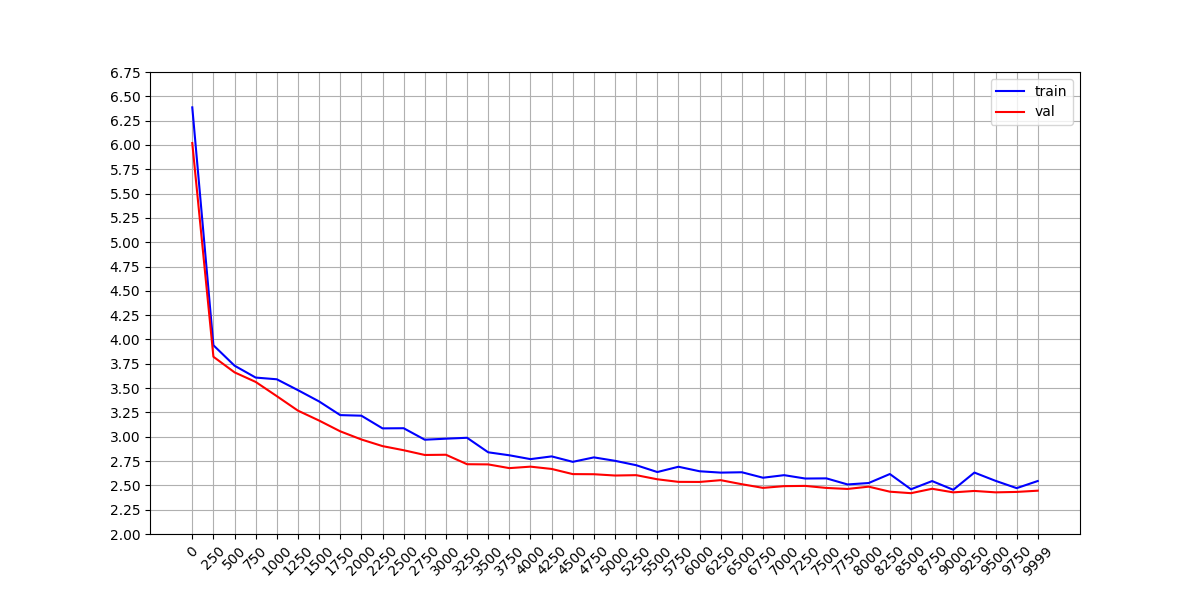
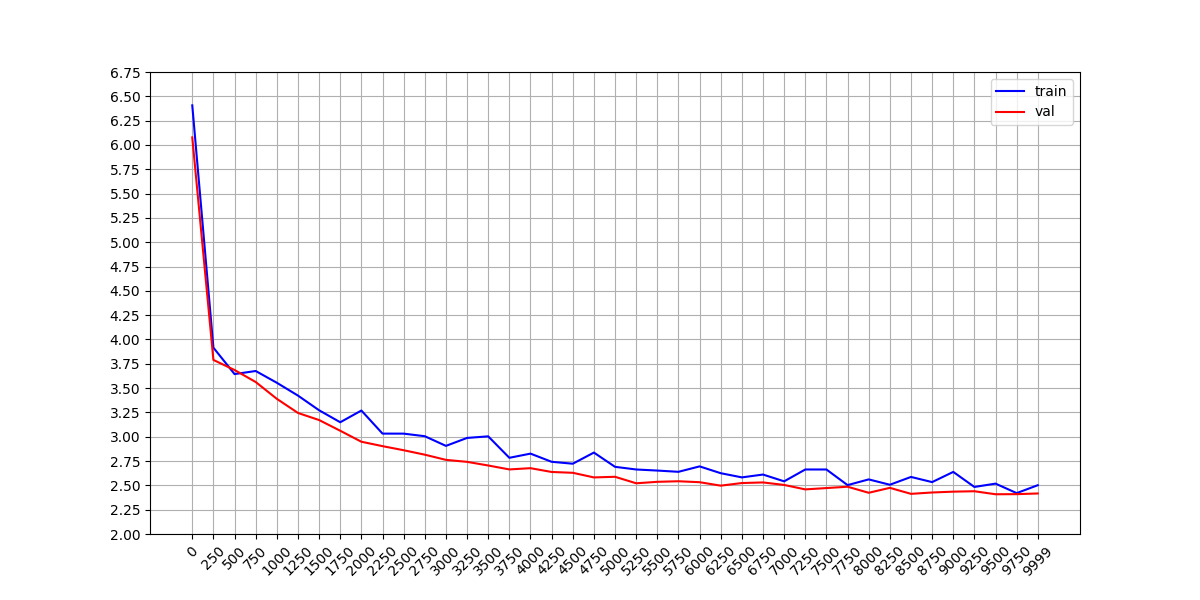
use gelu instead of relu

Changed region(s): [[0.2158, 0.63, 0.8633, 0.84], [0.185, 0.6, 0.2158, 0.63], [0.1542, 0.57, 0.185, 0.6]]

diff --git a/model.py b/model.py
@@ -164,7 +164,7 @@ class FeedForward(nn.Module):
         super().__init__()
         self.net = nn.Sequential(
             nn.Linear(d_model, d_ffwd, bias=True),
-            nn.ReLU(),
+            nn.GELU(),
             nn.Linear(d_ffwd, d_model, bias=True),
             nn.Dropout(dropout),
         )
